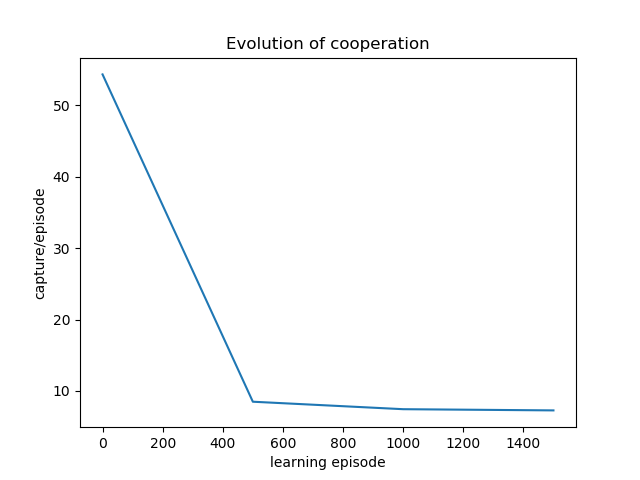
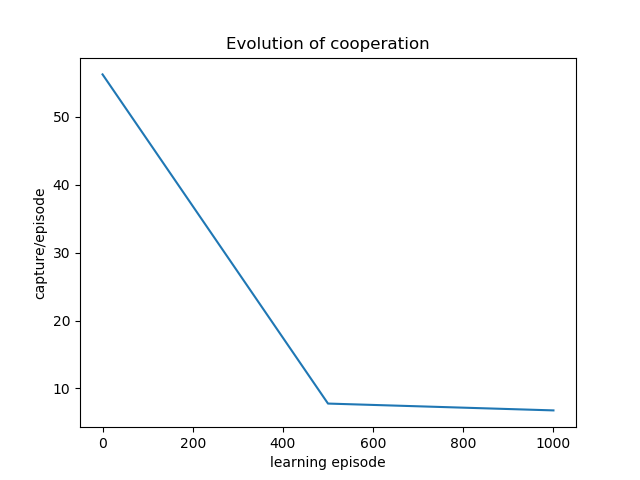
MDP learner

diff --git a/MDP_main.py b/MDP_main.py
@@ -9,11 +9,11 @@ import matplotlib.pyplot as plt
 import random
 from multiprocessing import Process, Manager, Lock
 
-from IL_agent import ILAgent
 from game import Game
 from prey import Prey
+from MDP_agent import MDPAgent
 
-n_actions = {0:5, 1:5}
+n_actions = 5
 actions_map = {0: (1,0), 1:(0,1), 2:(-1,0), 3:(0,-1), 4:(0,0)}
 
 class Main:
@@ -24,8 +24,6 @@ class Main:
             usage='''main <command> [<args>]
 
 The commands are:
-learn     Let the agents learn a policy during n episodes
-play      Play the game with a learned policy
 test      Test the performance of the learning
 ''')
         parser.add_argument('mode', help='mode to run')
@@ -38,47 +36,6 @@ test      Test the performance of the learning
             exit(1)
         # invoke method with same name
         getattr(self, args.mode)()
-
-    def learn(self):
-        # manage the arguments
-        parser = argparse.ArgumentParser(
-            description='Let the agents learn a policy during n episodes')
-        parser.add_argument('directory', 
-            help="directory to store the q-tables file")
-        parser.add_argument('-e', help="number of episode", default=100000, type=int)
-        parser.add_argument('-g', help="grid size", default=4, type=int)
-        parser.add_argument('-v', '--verbose', action='store_true')
-        
-        args = parser.parse_args(sys.argv[2:])
-        print('Running learn mode, episode={}, grid={}'.format(args.e, args.g))
-
-        # run the learn mode with the arguments
-        n_episode = args.e
-        grid = (args.g, args.g)
-        directory = args.directory
-        verbose = args.verbose
-        learn_mode(n_episode, grid, directory, verbose)
-
-    def play(self):
-        # manage the arguments
-        parser = argparse.ArgumentParser(
-            description='Play the game with a learned policy')
-        parser.add_argument('directory', help="directory of the q-tables file")
-        parser.add_argument('-g', help="grid size", default=4, type=int)
-        
-        args = parser.parse_args(sys.argv[2:])
-        print('Running play mode, grid={}, directory={}'.format(args.g, args.directory))
-
-        # run the play mode with the arguments
-        grid = (args.g, args.g)
-        file = "IL_{}_{}_grid.json".format(args.g, args.g)
-        path = "{}/{}".format(args.directory, file)
-        
-        # check if there is a good q-tables file, if there is let's play
-        if file in os.listdir("./{}".format(args.directory)):
-            play_mode(grid, path)
-        else:
-            print("no q-tables file in this directory for this grid size")
 
     def test(self):
         parser = argparse.ArgumentParser(
@@ -100,80 +57,24 @@ test      Test the performance of the learning
         verbose = args.verbose
         test_mode(n_episode, n_run, grid, verbose)
 
-        
-
-def learn_mode(n_episode, grid, directory, verbose=False):
-    # make n episodes
-    ncol, nrow = grid
-    Q_table_0, Q_table_1 = run_episodes(ILAgent.get_init_Q_t(n_actions[0], ncol, nrow), ILAgent.get_init_Q_t(n_actions[1], ncol, nrow), n_episode, grid, verbose)
-    # save Q tables
-    file_name = "IL_{}_{}_grid".format(ncol, nrow)
-    save_tables(Q_table_0, Q_table_1, directory, file_name)
-    
-
-def play_mode(grid, path):
-    ncol, nrow = grid
-
-    # create a game
-    game = Game({0:(3,0), 1:(0,3)}, ncol, nrow)
-    game.print()
-
-    # load Q_tables
-    Q_table_0, Q_table_1 = load_tables(path)
-
-    # create predators and prey
-    predators = [ILAgent(0, n_actions[0], ncol, nrow, Q_table_0), ILAgent(1, n_actions[1], ncol, nrow, Q_table_1)]
-    prey = Prey(5)
-
-    while True:
-        # get the current state
-        state = state_to_string(copy.copy(game.states))
-
-        # compute the action of the predators
-        j_action = dict()
-        for i, predator in enumerate(predators):
-            j_action[i] = actions_map[predator.get_action_choice(state, 0)]
-
-        # play a episode
-        game.play(j_action)
-
-        # move the prey on a free neighbor cell
-        free_cells = game.get_free_neighbor_cells()
-        action = prey.get_action_choice(free_cells)
-        game.play_prey(action)
-
-        # print grid
-        game.print()
-
-        choice = ""
-
-        while choice != "s" and choice != "n":
-            choice = input("n -> next episode, s -> stop : ")
-            print(choice)
-
-        if choice == "s":
-            break
-    
 def test_mode(n_episode, n_run, grid, verbose=False, size_interval=500):
     
     def f_run(run_times, initial_states, size_interval, 
               n_episode, line_to_up, run, lock, verbose):
         
-        n_actions = {0:5, 1:5}
     
         n_interval = int(n_episode/size_interval)
 
-        Q_table_0 = ILAgent.get_init_Q_t(n_actions[0], ncol, nrow)
-        Q_table_1 = ILAgent.get_init_Q_t(n_actions[1], ncol, nrow)
+        Q_table = MDPAgent.get_init_Q_t(n_actions*n_actions, ncol, nrow)
 
         times = []  # store capture time for each tests in a run
-        time = make_capture_test(Q_table_0, Q_table_1, initial_states, grid, verbose)
+        time = make_capture_test(Q_table, initial_states, grid, verbose)
         times.append(time) 
 
         for i in range(n_interval):
 
-            Q_table_0, Q_table_1 = run_episodes(Q_table_0, Q_table_1, size_interval, grid, verbose, offset=size_interval*i)
-            time = make_capture_test(Q_table_0, Q_table_1, initial_states, grid, verbose)
+            Q_table = run_episodes(Q_table, size_interval, grid, verbose, offset=size_interval*i)
+            time = make_capture_test(Q_table, initial_states, grid, verbose)
             times.append(time)
 
             if verbose:
@@ -228,17 +129,17 @@ def test_mode(n_episode, n_run, grid, verbose=False, size_interval=500):
         plt.xlabel("learning episode")
         plt.ylabel("capture/episode")
         plt.title("Evolution of cooperation")
-        plt.savefig('images/plots/IL_{}_{}_grid.png'.format(nrow, ncol))
+        plt.savefig('images/plots/MDP_{}_{}_grid.png'.format(nrow, ncol))
 
         data = {"avg": avg, "episode": episode}
-        with open('json/IL_{}_{}_grid.json'.format(nrow, ncol), 'w') as outfile:
+        with open('json/MDP_{}_{}_grid.json'.format(nrow, ncol), 'w') as outfile:
              json.dump(data, outfile)
 
-def run_episodes(Q_table_0, Q_table_1, n_episode, grid, verbose=False, offset=0):
+def run_episodes(Q_table, n_episode, grid, verbose=False, offset=0):
 
     ncol, nrow = grid
     # create predators and prey
-    predators = [ILAgent(0, n_actions[0], ncol, nrow, Q_table_0), ILAgent(1, n_actions[1], ncol, nrow, Q_table_1)]
+    predator = MDPAgent(n_actions, ncol, nrow, Q_table)
     prey = Prey(5)
 
     # learning parameters
@@ -263,8 +164,9 @@ def run_episodes(Q_table_0, Q_table_1, n_episode, grid, verbose=False, offset=0)
 
             # compute the action of the predators
             j_action = dict()
-            for i, predator in enumerate(predators):
-                j_action[i] = actions_map[predator.get_action_choice(state, epsilon)]
+            joint_action = predator.get_action_choice(state, epsilon)
+            j_action[0] = actions_map[joint_action[0]]
+            j_action[1] = actions_map[joint_action[1]]
 
             # play the actions and get the reward and the next state
             next_state, reward, capture = game.play(j_action)
@@ -272,8 +174,8 @@ def run_episodes(Q_table_0, Q_table_1, n_episode, grid, verbose=False, offset=0)
             j_action = {id:inv_map(action) for id, action in j_action.items()}
 
             # make the q-table update
-            for i, predator in enumerate(predators):
-                predator.make_q_update(reward[i], state, j_action[i], next_state, alpha, gamma)
+            global_reward = reward[0] + reward[1]
+            predator.make_q_update(global_reward, state, j_action, next_state, alpha, gamma)
 
             # move the prey on a free neighbor cell
             free_cells = game.get_free_neighbor_cells()
@@ -282,13 +184,13 @@ def run_episodes(Q_table_0, Q_table_1, n_episode, grid, verbose=False, offset=0)
 
             round_game += 1
 
-    return predators[0].Q_t, predators[1].Q_t
+    return predator.Q_t
 
-def make_capture_test(Q_table_0, Q_table_1, initial_states, grid, verbose=False):
+def make_capture_test(Q_table, initial_states, grid, verbose=False):
     
     ncol, nrow = grid
     capture_times = []
-    agents = [ILAgent(0, n_actions[0], ncol, nrow, Q_table_0), ILAgent(1, n_actions[1], ncol, nrow, Q_table_1)]
+    agent = MDPAgent(n_actions, ncol, nrow, Q_table)
     prey = Prey(5)
 
    
@@ -301,9 +203,10 @@ def make_capture_test(Q_table_0, Q_table_1, initial_states, grid, verbose=False)
         while not capture:
             state = state_to_string(copy.copy(game.states))
             j_action = dict()
-            for i, agent in enumerate(agents):
-               j_action[i] = actions_map[agent.get_action_choice(state, 0.2)] # TODO : Why not eps = 0
-
+            joint_action = agent.get_action_choice(state, 0.2) # TODO : Why not eps = 0
+            j_action[0] = actions_map[joint_action[0]]
+            j_action[1] = actions_map[joint_action[1]]
+            
             _, _, capture = game.play(j_action)
 
             # move the prey on a free neighbor cell
@@ -318,38 +221,6 @@ def make_capture_test(Q_table_0, Q_table_1, initial_states, grid, verbose=False)
     mean_capture_time = mean(capture_times)
     
     return mean_capture_time
-
-def save_tables(Q_table_0, Q_table_1, directory, name):
-
-        """
-        saves the Q-tables in json format
-
-        :param directory: directory where to save
-        :param name: save file name
-        """
-
-        data = dict()
-        data[0] = Q_table_0
-        data[1] = Q_table_1
-        path = "{}/{}.json".format(directory, name)
-        with open(path, 'w', encoding='utf-8') as f:
-            json.dump(data, f, ensure_ascii=False, indent=4)
-
-def load_tables(path):
-
-        """
-        load the Q-tables from a json file
-
-        :param path: path to the json file
-        """
-
-        with open(path) as f:
-            data = json.load(f)
-
-        Q_table_0 = data["0"]
-        Q_table_1 = data["1"]
-
-        return Q_table_0, Q_table_1
 
 def inv_map(action_to_map):
     for action_id, action in actions_map.items():

diff --git a/MDP_agent.py b/MDP_agent.py
@@ -1,0 +1,72 @@
+import random
+import numpy as np
+
+
+class MDPAgent:
+    def __init__(self, n_action, ncol, nrow, Q_t):
+        self.n_action = n_action
+        self.n_joint_action = n_action*n_action
+        self.Q_t = Q_t
+
+    @staticmethod
+    def get_init_Q_t(n_joint_action, ncol, nrow):
+        return {repr(((x1, y1), (x2, y2))) : [0]*n_joint_action for x1 in range(ncol) for y1 in range(nrow) for x2 in range(nrow) for y2 in range(ncol) if not ((x1==x2 and y1==y2) or (x1==0 and y1==0) or (x2==0 and y2==0)) }
+
+    def get_action_choice(self, state, epsilon):
+
+        """
+        return the agent's choice of action for a particular state
+
+        :param state: the state of the game
+        :param epsilon: e-greedy parameter
+        :return: the agent's choice of action
+        """
+
+        # e-greedy
+        if (random.uniform(0, 1) < epsilon):
+            a_t = random.randint(0, self.n_joint_action-1)
+        else:
+            
+            # Get the Q-values for the actions in this state
+            Qs_t = self.Q_t[state]
+
+            # find index of the max Q-values
+            max_index = [i for i, j in enumerate(Qs_t)
+                         if j == max(Qs_t)]
+
+            # choose one of the max-index with uniform distribution
+            p = [1/len(max_index) for i in range(len(max_index))]
+            sel_index = np.random.choice(max_index, p=p)
+            a_t = sel_index
+
+        return self.index_to_joint_action(a_t)
+            
+
+    def make_q_update(self, reward, state, joint_action, next_state, alpha, gamma):
+
+        """
+        update the Q-table for the previous state and the chosen joint action
+
+        :param reward: reward received for the last joint action choice
+        :param state: the state before the joint action
+        :param joint_action: the joint action
+        :param next_state: the state resulting of the joint action
+        :param alpha: learning rate
+        :param gamma: discount factor
+        """
+        action_index = self.joint_action_to_index(joint_action)
+        previous_value = self.Q_t[state][action_index]
+        max_future_reward = max(self.Q_t[next_state])
+        new_value = reward + gamma*max_future_reward
+
+        self.Q_t[state][action_index] = (1-alpha)*previous_value + alpha*new_value
+
+    def index_to_joint_action(self, index):
+        action0 = index // self.n_action
+        action1 = index % self.n_action
+        return (action0, action1)
+
+    def joint_action_to_index(self, joint_action):
+        index = joint_action[0]*self.n_action + joint_action[1]
+        return index
+    
